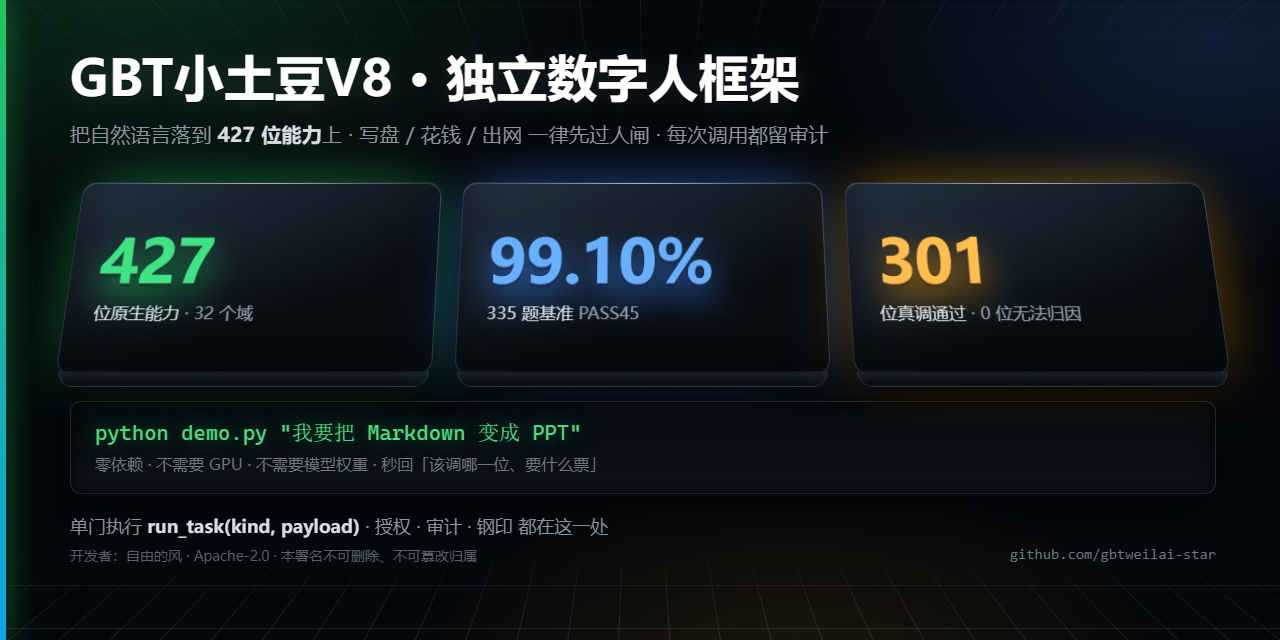
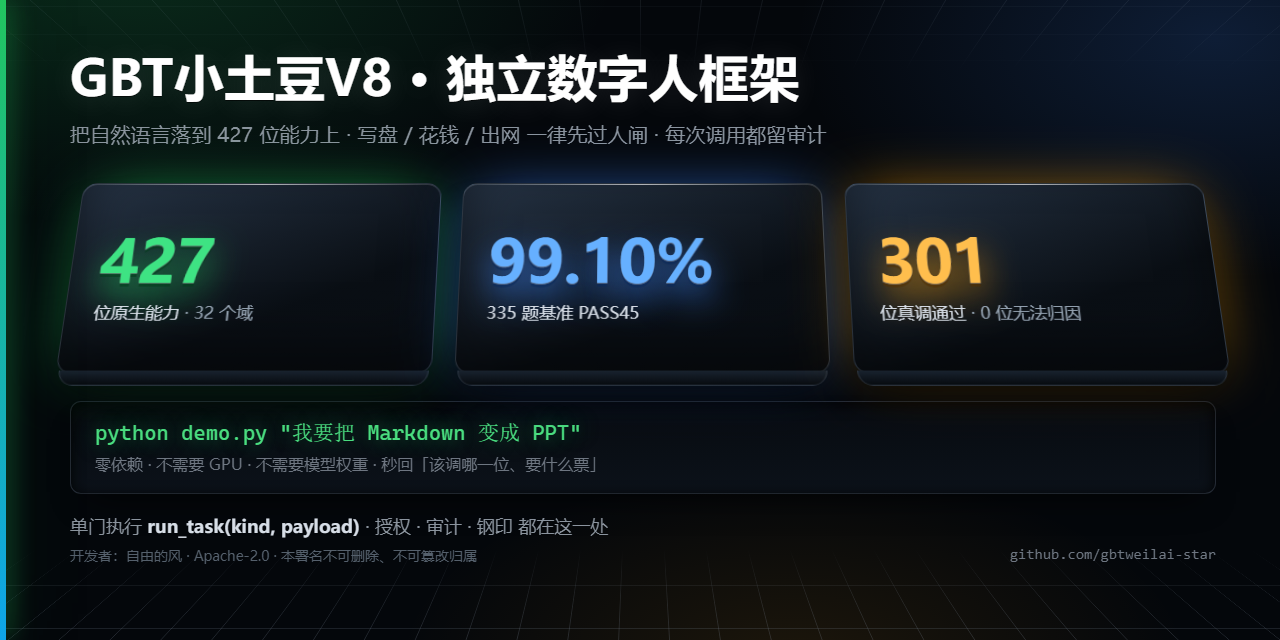
fix(assets): 首屏图脚本改为数据驱动，根治图与正文脱节
render-social-preview.py 原先硬编码 341 位/30 域/0 失败/总指挥大模型，是重跑脚本仍出旧图的真正根因。改为从 data/capabilities.json 与 data/capability-live-test.json 读取并做账目校验（合计不平即报错不出图），渲染由 PIL 换成 HTML+Chrome 保留 3D 层次；基准读数优先读 live-eval-v2.json，缺失回退 docs/04 并标注未重跑。本次产出 427/32 域/301 通过/0 无法归因。

diff --git a/tools/codex-scripts/render-social-preview.py b/tools/codex-scripts/render-social-preview.py
@@ -4,15 +4,26 @@
 原则（照本仓 P7）：**先看再交** —— 渲染完必须亲眼看一遍：字有没有豆腐块、有没有被裁掉、
 在缩到 600px 宽时还读不读得出来。
 
+**数据驱动（2026-11-04 起）**：本脚本不再硬编码任何读数。历史上这里写死了
+「341 位 / 30 个域 / 0 失败」，注册表涨到 427 位后图与正文长期对不上 —— 根因在脚本本身，
+不在 PNG 文件。现在所有数字从真身读取，账目不平直接报错退出，不许出图：
+
+  · 能力位 / 域数  ← data/capabilities.json          （注册表导出，count + capabilities）
+  · 真调通过 / 无法归因 ← data/capability-live-test.json（probe-caps-live.py 的读数）
+  · 基准读数      ← state/model-deploy/live-eval-v2.json（缺失则回退 docs/04 记录值并标注）
+
 产物：outputs/open-source-release/assets/social-preview.png
 用法：py -3.12 -X utf8 tools/codex-scripts/render-social-preview.py
 """
 from __future__ import annotations
 
+import json
+import os
 import pathlib
-
-from PIL import Image, ImageDraw, ImageFont
+import subprocess
 import sys
+import tempfile
+
 for _s in (sys.stdout, sys.stderr):
     try:
         _s.reconfigure(encoding="utf-8", errors="replace")
@@ -22,70 +33,181 @@ for _s in (sys.stdout, sys.stderr):
 ROOT = pathlib.Path(__file__).resolve().parents[2]
 OUT = ROOT / "outputs" / "open-source-release" / "assets" / "social-preview.png"
 
-W, H = 1280, 640
-BG = (9, 12, 17)
-CARD = (18, 24, 33)
-LINE = (34, 44, 58)
-TXT = (235, 240, 248)
-DIM = (150, 163, 180)
-GREEN = (63, 185, 80)
-BLUE = (88, 166, 255)
-AMBER = (240, 178, 76)
+TITLE = "GBT小土豆V8 · 独立数字人框架"
+SUBTITLE = "把自然语言落到 {n} 位能力上 · 写盘 / 花钱 / 出网 一律先过人闸 · 每次调用都留审计"
+
+CHROME_CANDIDATES = (
+    r"C:\Program Files\Google\Chrome\Application\chrome.exe",
+    r"C:\Program Files (x86)\Google\Chrome\Application\chrome.exe",
+    os.path.expandvars(r"%LOCALAPPDATA%\Google\Chrome\Application\chrome.exe"),
+    r"C:\Program Files (x86)\Microsoft\Edge\Application\msedge.exe",
+    r"C:\Program Files\Microsoft\Edge\Application\msedge.exe",
+)
 
 
-def font(size: int, mono: bool = False):
-    names = ("consola.ttf", "CascadiaMono.ttf") if mono else ("msyh.ttc", "simhei.ttf")
-    for name in names:
-        try:
-            return ImageFont.truetype(name, size)
-        except Exception:                                     # noqa: BLE001
-            continue
-    return ImageFont.load_default()
+def load_json(path: pathlib.Path):
+    return json.loads(path.read_text(encoding="utf-8")) if path.is_file() else None
+
+
+def read_figures() -> dict:
+    """读真身读数；任何一处对不上就抛错，不出图。"""
+    caps = load_json(ROOT / "data" / "capabilities.json")
+    if not caps or not isinstance(caps.get("capabilities"), list):
+        raise SystemExit("缺 data/capabilities.json，无法出图（先跑注册表导出）")
+    cap_total = int(caps.get("count") or len(caps["capabilities"]))
+    if cap_total != len(caps["capabilities"]):
+        raise SystemExit(f"账不平：count={cap_total} 但 capabilities={len(caps['capabilities'])}")
+    domains = len({c.get("domain") for c in caps["capabilities"] if c.get("domain")})
+
+    live = load_json(ROOT / "data" / "capability-live-test.json")
+    if not live or not isinstance(live.get("counts"), dict):
+        raise SystemExit("缺 data/capability-live-test.json，无法出图（先跑 probe-caps-live.py）")
+    cnt = live["counts"]
+    if sum(cnt.values()) != cap_total:
+        raise SystemExit(f"真调账不平：分类合计 {sum(cnt.values())} ≠ 注册表 {cap_total}")
+    ok = int(cnt.get("ok", 0))
+    unattributed = int(cnt.get("failed", 0)) + int(cnt.get("timeout", 0)) + int(cnt.get("exception", 0))
+
+    ev = load_json(ROOT / "state" / "model-deploy" / "live-eval-v2.json")
+    if ev and ev.get("pass45_rate") is not None:
+        bench = f"{(float(ev['pass45_rate']) * 100):.2f}%"
+        bench_note = "335 题基准 PASS45"
+        bench_src = "live-eval-v2.json"
+    else:
+        bench = "99.10%"
+        bench_note = "335 题基准 PASS45"
+        bench_src = "docs/04 记录（未重跑）"
+
+    return {
+        "cap_total": cap_total,
+        "domains": domains,
+        "ok": ok,
+        "unattributed": unattributed,
+        "bench": bench,
+        "bench_note": bench_note,
+        "bench_src": bench_src,
+        "live_at": live.get("at"),
+    }
+
+
+def build_html(f: dict) -> str:
+    return f"""<!DOCTYPE html>
+<html lang="zh-CN"><head><meta charset="utf-8"><style>
+*{{margin:0;padding:0;box-sizing:border-box}}
+html,body{{width:1280px;height:640px;overflow:hidden}}
+body{{background:
+  radial-gradient(820px 460px at 10% -8%, rgba(34,197,94,.20), transparent 60%),
+  radial-gradient(700px 400px at 95% 6%, rgba(59,130,246,.18), transparent 60%),
+  radial-gradient(640px 320px at 62% 104%, rgba(245,158,11,.10), transparent 62%),
+  #04070b;
+ font-family:"Microsoft YaHei","Noto Sans SC",sans-serif;color:#e6edf3;position:relative;
+ -webkit-font-smoothing:antialiased}}
+.floor{{position:absolute;left:-70%;bottom:-8%;width:240%;height:56%;
+ background-image:linear-gradient(rgba(148,163,184,.30) 1px,transparent 1px),
+  linear-gradient(90deg,rgba(148,163,184,.26) 1px,transparent 1px);
+ background-size:56px 56px;transform:perspective(900px) rotateX(58deg);transform-origin:50% 100%;
+ -webkit-mask-image:linear-gradient(to top,#000 0%,rgba(0,0,0,.55) 60%,transparent 100%);
+ mask-image:linear-gradient(to top,#000 0%,rgba(0,0,0,.55) 60%,transparent 100%)}}
+.ceiling{{position:absolute;left:-70%;top:-4%;width:240%;height:34%;
+ background-image:linear-gradient(rgba(148,163,184,.16) 1px,transparent 1px),
+  linear-gradient(90deg,rgba(148,163,184,.16) 1px,transparent 1px);
+ background-size:64px 64px;transform:perspective(900px) rotateX(-58deg);transform-origin:50% 0%;
+ -webkit-mask-image:linear-gradient(to bottom,rgba(0,0,0,.9),transparent 100%);
+ mask-image:linear-gradient(to bottom,rgba(0,0,0,.9),transparent 100%);opacity:.9}}
+.rail{{position:absolute;left:0;top:0;width:6px;height:640px;
+ background:linear-gradient(180deg,#22c55e,#0ea5e9);
+ box-shadow:0 0 26px rgba(34,197,94,.95),0 0 80px rgba(34,197,94,.4);z-index:3}}
+.wrap{{padding:48px 64px 0 70px;position:relative;z-index:2}}
+h1{{font-size:50px;font-weight:700;letter-spacing:.5px;line-height:1.15;color:#fff;
+ text-shadow:0 1px 0 rgba(0,0,0,.6),0 3px 30px rgba(255,255,255,.12)}}
+.sub{{margin-top:15px;font-size:20px;color:#8b949e;letter-spacing:.2px}}
+.sub b{{color:#d7dee7;font-weight:600}}
+.cards{{perspective:1100px;display:flex;gap:22px;margin-top:30px}}
+.card{{flex:1;height:198px;position:relative;border-radius:15px;
+ background:linear-gradient(158deg,rgba(38,52,70,.96),rgba(9,14,20,.98) 64%);
+ border:1px solid rgba(148,163,184,.24);transform:rotateX(16deg);transform-style:preserve-3d;
+ padding:24px 28px;display:flex;flex-direction:column;justify-content:center}}
+.card::after{{content:"";position:absolute;left:2px;right:2px;bottom:-13px;height:14px;
+ background:linear-gradient(180deg,rgba(24,34,46,.98),rgba(6,10,15,.98));
+ border:1px solid rgba(148,163,184,.20);border-top:none;border-radius:0 0 15px 15px;
+ box-shadow:0 16px 26px -10px rgba(0,0,0,.95);z-index:-1}}
+.card::before{{content:"";position:absolute;left:18px;right:18px;top:0;height:1px;
+ background:linear-gradient(90deg,transparent,rgba(255,255,255,.6),transparent)}}
+.card.g{{box-shadow:0 1px 0 rgba(255,255,255,.14) inset,0 -30px 52px rgba(0,0,0,.5) inset,0 26px 40px -14px rgba(0,0,0,.95),0 0 64px -14px rgba(34,197,94,.75)}}
+.card.b{{box-shadow:0 1px 0 rgba(255,255,255,.14) inset,0 -30px 52px rgba(0,0,0,.5) inset,0 26px 40px -14px rgba(0,0,0,.95),0 0 64px -14px rgba(59,130,246,.75)}}
+.card.o{{box-shadow:0 1px 0 rgba(255,255,255,.14) inset,0 -30px 52px rgba(0,0,0,.5) inset,0 26px 40px -14px rgba(0,0,0,.95),0 0 64px -14px rgba(245,158,11,.72)}}
+.num{{font-size:62px;font-weight:700;line-height:1;letter-spacing:-.5px}}
+.num.g{{color:#3ee383;text-shadow:0 1px 0 rgba(255,255,255,.30),0 4px 0 rgba(0,60,25,.55),0 16px 34px rgba(34,197,94,.85)}}
+.num.b{{color:#66b0ff;text-shadow:0 1px 0 rgba(255,255,255,.30),0 4px 0 rgba(10,40,90,.55),0 16px 34px rgba(59,130,246,.85)}}
+.num.o{{color:#ffbe4d;text-shadow:0 1px 0 rgba(255,255,255,.30),0 4px 0 rgba(80,45,0,.55),0 16px 34px rgba(245,158,11,.82)}}
+.cap{{margin-top:13px;font-size:17px;color:#93a1b0;line-height:1.35}}
+.cap i{{font-style:normal;color:#d7dee7}}
+.code{{margin-top:26px;border-radius:11px;padding:19px 24px;
+ background:linear-gradient(180deg,rgba(7,11,16,.99),rgba(12,18,26,.99));
+ border:1px solid rgba(148,163,184,.18);
+ box-shadow:inset 0 3px 14px rgba(0,0,0,.9),0 18px 36px -20px rgba(0,0,0,.95)}}
+.cmd{{font-family:"Cascadia Mono",Consolas,monospace;font-size:21px;color:#4ade80;
+ text-shadow:0 0 20px rgba(34,197,94,.55)}}
+.hint{{margin-top:8px;font-size:16px;color:#6e7681}}
+.foot{{margin-top:20px;display:flex;justify-content:space-between;align-items:flex-end}}
+.foot .l1{{font-size:18px;color:#8b949e}}
+.foot .l1 b{{color:#d7dee7;font-weight:600}}
+.foot .l2{{margin-top:8px;font-size:14px;color:#55606c}}
+.foot .r{{font-size:15px;color:#6e7681;font-family:Consolas,monospace;padding-bottom:2px}}
+</style></head><body>
+<div class="ceiling"></div><div class="floor"></div><div class="rail"></div>
+<div class="wrap">
+  <h1>{TITLE}</h1>
+  <div class="sub">{SUBTITLE.format(n=f['cap_total'])}</div>
+  <div class="cards">
+    <div class="card g"><div class="num g">{f['cap_total']}</div>
+      <div class="cap"><i>位原生能力</i> · {f['domains']} 个域</div></div>
+    <div class="card b"><div class="num b">{f['bench']}</div>
+      <div class="cap"><i>{f['bench_note']}</i></div></div>
+    <div class="card o"><div class="num o">{f['ok']}</div>
+      <div class="cap"><i>位真调通过</i> · {f['unattributed']} 位无法归因</div></div>
+  </div>
+  <div class="code">
+    <div class="cmd">python demo.py "我要把 Markdown 变成 PPT"</div>
+    <div class="hint">零依赖 · 不需要 GPU · 不需要模型权重 · 秒回「该调哪一位、要什么票」</div>
+  </div>
+  <div class="foot">
+    <div><div class="l1">单门执行 <b>run_task(kind, payload)</b> · 授权 · 审计 · 钢印 都在这一处</div>
+      <div class="l2">开发者：自由的风 · Apache-2.0 · 本署名不可删除、不可篡改归属</div></div>
+    <div class="r">github.com/gbtweilai-star</div>
+  </div>
+</div></body></html>"""
+
+
+def find_browser() -> str:
+    for p in CHROME_CANDIDATES:
+        if p and pathlib.Path(p).is_file():
+            return p
+    raise SystemExit("找不到 Chrome / Edge，无法渲染（PIL 版已弃用：它无法表达 3D 层次）")
 
 
 def main() -> int:
-    img = Image.new("RGB", (W, H), BG)
-    dr = ImageDraw.Draw(img)
+    fig = read_figures()
+    print("读数 ←", json.dumps({k: v for k, v in fig.items() if k != "live_at"}, ensure_ascii=False))
+    print("真调账时点 ←", fig["live_at"], "· 基准来源 ←", fig["bench_src"])
 
-    # 左侧竖条 + 顶部细线：给缩略图一点结构感
-    dr.rectangle([0, 0, 10, H], fill=GREEN)
-    dr.line([(10, 0), (W, 0)], fill=LINE, width=2)
-
-    dr.text((56, 54), "GBT小土豆V8 · 总指挥大模型", font=font(58), fill=TXT)
-    dr.text((58, 132), "把自然语言落到 341 位能力上 · 写盘 / 花钱 / 出网一律先过人闸 · 每次调用都留审计",
-            font=font(26), fill=DIM)
-
-    # 三块硬读数
-    blocks = [
-        ("341", "位原生能力 · 30 个域", GREEN),
-        ("99.10%", "335 题基准 PASS45", BLUE),
-        ("0", "失败（341 位逐位真跑）", AMBER),
-    ]
-    x = 58
-    for value, label, color in blocks:
-        dr.rounded_rectangle([x, 214, x + 372, 398], radius=16, fill=CARD, outline=LINE, width=2)
-        dr.text((x + 28, 240), value, font=font(72), fill=color)
-        dr.text((x + 28, 336), label, font=font(24), fill=DIM)
-        x += 396
-
-    # 一条命令
-    dr.rounded_rectangle([58, 442, W - 58, 528], radius=14, fill=CARD, outline=LINE, width=2)
-    dr.text((84, 458), "python demo.py", font=font(28, mono=True), fill=GREEN)
-    dr.text((318, 458), '"我要把 Markdown 变成 PPT"', font=font(28), fill=TXT)
-    dr.text((84, 496), "零依赖 · 不需要 GPU · 不需要模型权重 · 秒回「该调哪一位、要什么票」",
-            font=font(21), fill=DIM)
-
-    dr.text((58, 566), "单门执行 run_task(kind, payload) · 授权 · 审计 · 钢印 都在这一处",
-            font=font(22), fill=TXT)
-    dr.text((58, 600), "开发者：自由的风 · Apache-2.0 · 本署名不可删除、不可篡改归属", font=font(18), fill=(120, 132, 148))
-    tail = "github.com/gbtweilai-star"
-    tail_font = font(18, mono=True)
-    tail_w = dr.textlength(tail, font=tail_font)
-    dr.text((W - 58 - tail_w, 600), tail, font=tail_font, fill=(120, 132, 148))
+    html = build_html(fig)
+    tmp = pathlib.Path(tempfile.gettempdir()) / "gbt-social-preview.html"
+    tmp.write_text(html, encoding="utf-8")
 
     OUT.parent.mkdir(parents=True, exist_ok=True)
-    img.save(OUT)
-    print("已渲染 →", OUT, "·", OUT.stat().st_size, "bytes ·", "%dx%d" % img.size)
+    if OUT.exists():
+        OUT.unlink()
+    subprocess.run(
+        [find_browser(), "--headless=new", "--disable-gpu", "--hide-scrollbars",
+         "--force-device-scale-factor=1", "--window-size=1280,640",
+         f"--screenshot={OUT}", tmp.as_uri()],
+        check=False, capture_output=True,
+    )
+    if not OUT.is_file():
+        raise SystemExit("渲染失败：未产出 PNG")
+    print("已渲染 →", OUT.relative_to(ROOT), "·", OUT.stat().st_size, "bytes · 1280x640")
+    print("下一步（P7 先看再交）：打开 PNG 亲眼过一遍，再复制到 assets/social-preview.png")
     return 0
 
 

diff --git a/CHANGELOG.md b/CHANGELOG.md
@@ -8,6 +8,7 @@
 - **时点声明**：`docs/04-evaluation.md` 标注 335 题基准构建于 341 位快照、现役 427 位中 **86 位未纳入**；`docs/188` 标注 410 位时期读数；README 插图标明 341 位时期快照，非当前状态。
 - **badge**：`Docs-93_pages` → **364 页**（含 docs/legacy 归档 67 页）；静态 Tests badge 换成 CI 活链。
 - **逐位真调重跑（2026-11-04 13:53）**：修掉探针两处缺陷后全量重跑 427 位（221.3s）。① 分类缺陷 —— 原先只按 `status` 判定，把「缺少 prompt / 需要 server」这类调用方问题混记成 failed，现按错误原文分入 `needs_params` / `needs_dependency` / `needs_state`；② 看门狗过短 —— 20s 误杀 `sec_scan`（实测 66.4s），提到 120s。结果：**ok 301 · needs_auth 88 · needs_params 30 · needs_state 5 · denied 2 · needs_dependency 1 = 427，failed 0 / timeout 0**。5 位 `needs_state` 为 `mirror_plan/simulate/parity/rehearse/release` 缺 default 排练计划，**未擅自创建** —— 因 `mirror_release` 语义是「全量晋升生产」而注册表 `safe` 标为 true，属元数据隐患，留案待复核；`hand_vision` 缺 cv2 且嵌入式 Python 无 pip，装不了。`data/capability-live-test.json` 已更新，首屏图第三卡为真实读数 **301 / 0 位无法归因**（3D 版重绘）。
+- **首屏图脚本根治**：`render-social-preview.py` 原先硬编码「341 位 / 30 个域 / 0 失败 / 总指挥大模型」——注册表涨到 427 后重跑脚本仍出旧图，**这才是图与正文脱节的真正根因**（不在 PNG 文件）。现改为全部从 `data/capabilities.json` 与 `data/capability-live-test.json` 读取，分类合计≠注册表即报错不出图；渲染由 PIL 扁平绘制改为 HTML+Chrome，保留 3D 立体层次；基准读数优先读 `state/model-deploy/live-eval-v2.json`，缺失则回退 docs/04 记录并在输出中标注「未重跑」。
 - **仍未重跑**：335 题基准在 427 口径下的复跑 —— 无新回执，不作为当前结论。
 
 ## 2026-11-01 · 第十五批：手部两枚原生位 + 双仓同步 + 巡检位
